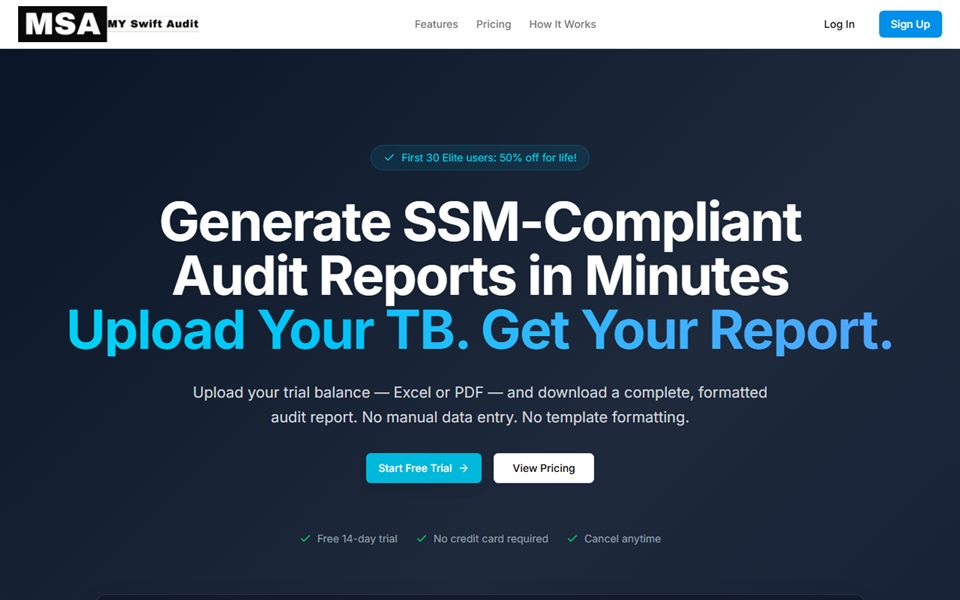
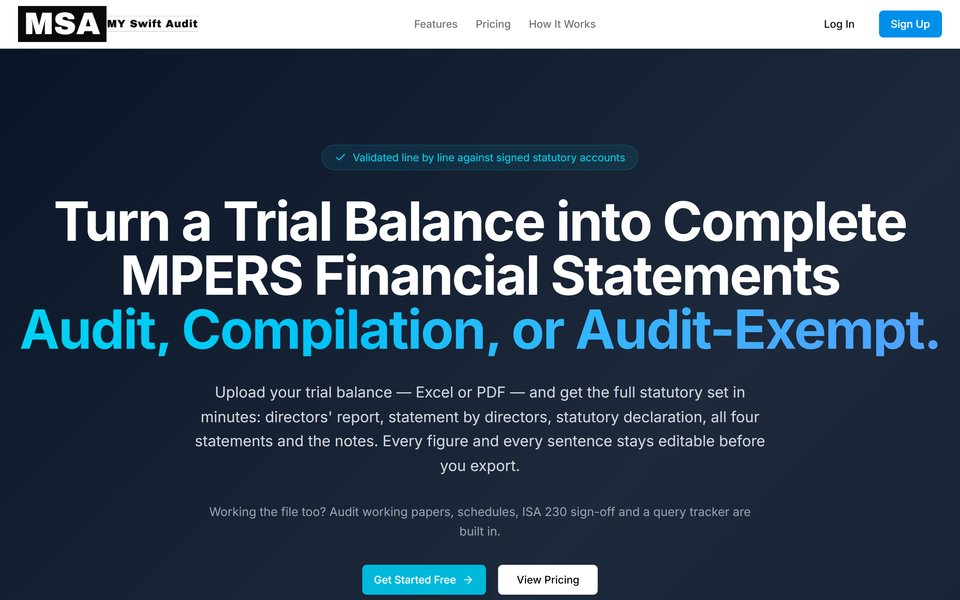
Update MY Swift Audit portfolio card and screenshot
Rename to MY Swift Audit, describe it as an MPERS financial statements
app rather than audit report preparation, and replace the thumbnail
with a fresh capture of the redesigned homepage.

diff --git a/data/portfolio.ts b/data/portfolio.ts
@@ -33,21 +33,21 @@ export type PortfolioItem = {
 export const portfolio: PortfolioItem[] = [
   {
     slug: "swift-audit",
-    name: "Swift Audit",
-    industry: "Audit / Fintech",
+    name: "MY Swift Audit",
+    industry: "Web App / Fintech",
     category: "apps",
     location: "Malaysia",
     url: "https://myswiftaudit.com",
     // TODO: add measured mobile load time (loadTime: "0.Xs")
-    blurb: "Web app that automates financial audit report preparation for Malaysian firms.",
+    blurb: "Web app that turns a company's trial balance into full MPERS financial statements and audit working papers, for Malaysian accounting and audit firms.",
     built: [
       "Brand-new build — designed and developed from zero, not a redesign",
-      "Automates the preparation of financial audit reports to Malaysian requirements",
-      "Full web application, not a brochure site: data in, formatted report out",
+      "Generates the full MPERS statutory set from a trial balance: statements, notes and directors' report",
+      "Full web application, not a brochure site: trial balance in, statements and working papers out",
     ],
     beforeAfter: {
-      before: "Audit reports drafted by hand — repetitive, slow, and easy to get wrong.",
-      after: "Enter the engagement figures and the app generates the formatted report — drafting time cut from hours to minutes.",
+      before: "Year-end accounts built by hand in Excel and Word: slow, repetitive and easy to get wrong.",
+      after: "Upload the trial balance and the app produces the statements, notes, directors' report and working papers, checked against a real signed set of accounts.",
     },
     image: "/work/swift-audit.jpg",
     gradient: "from-indigo-500 to-blue-800",
